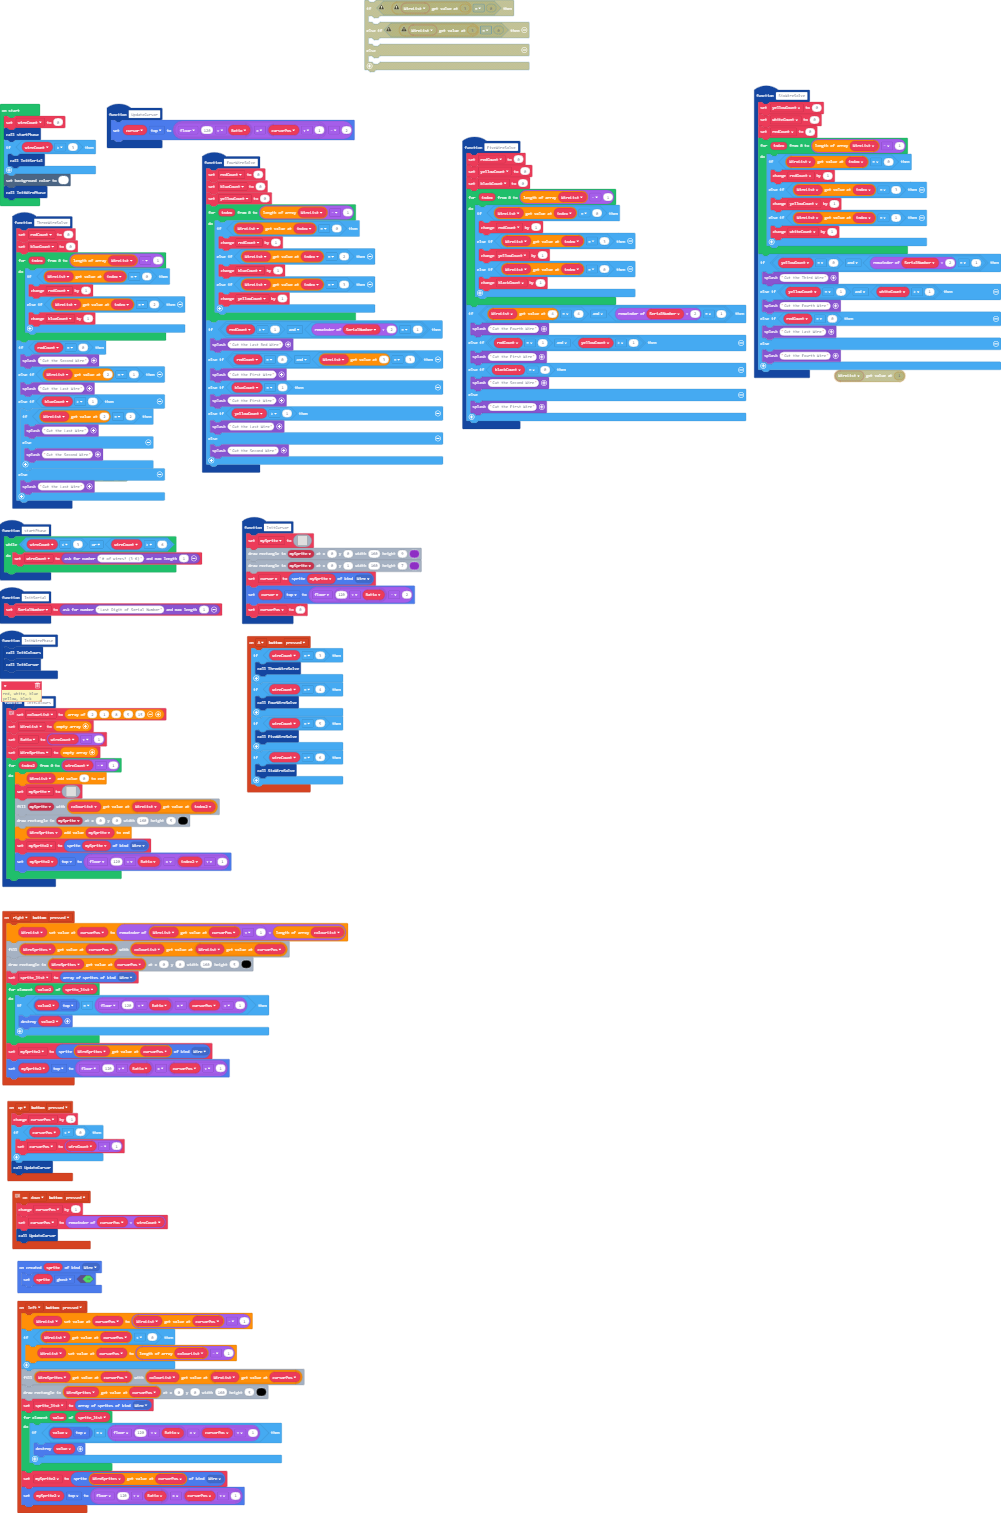
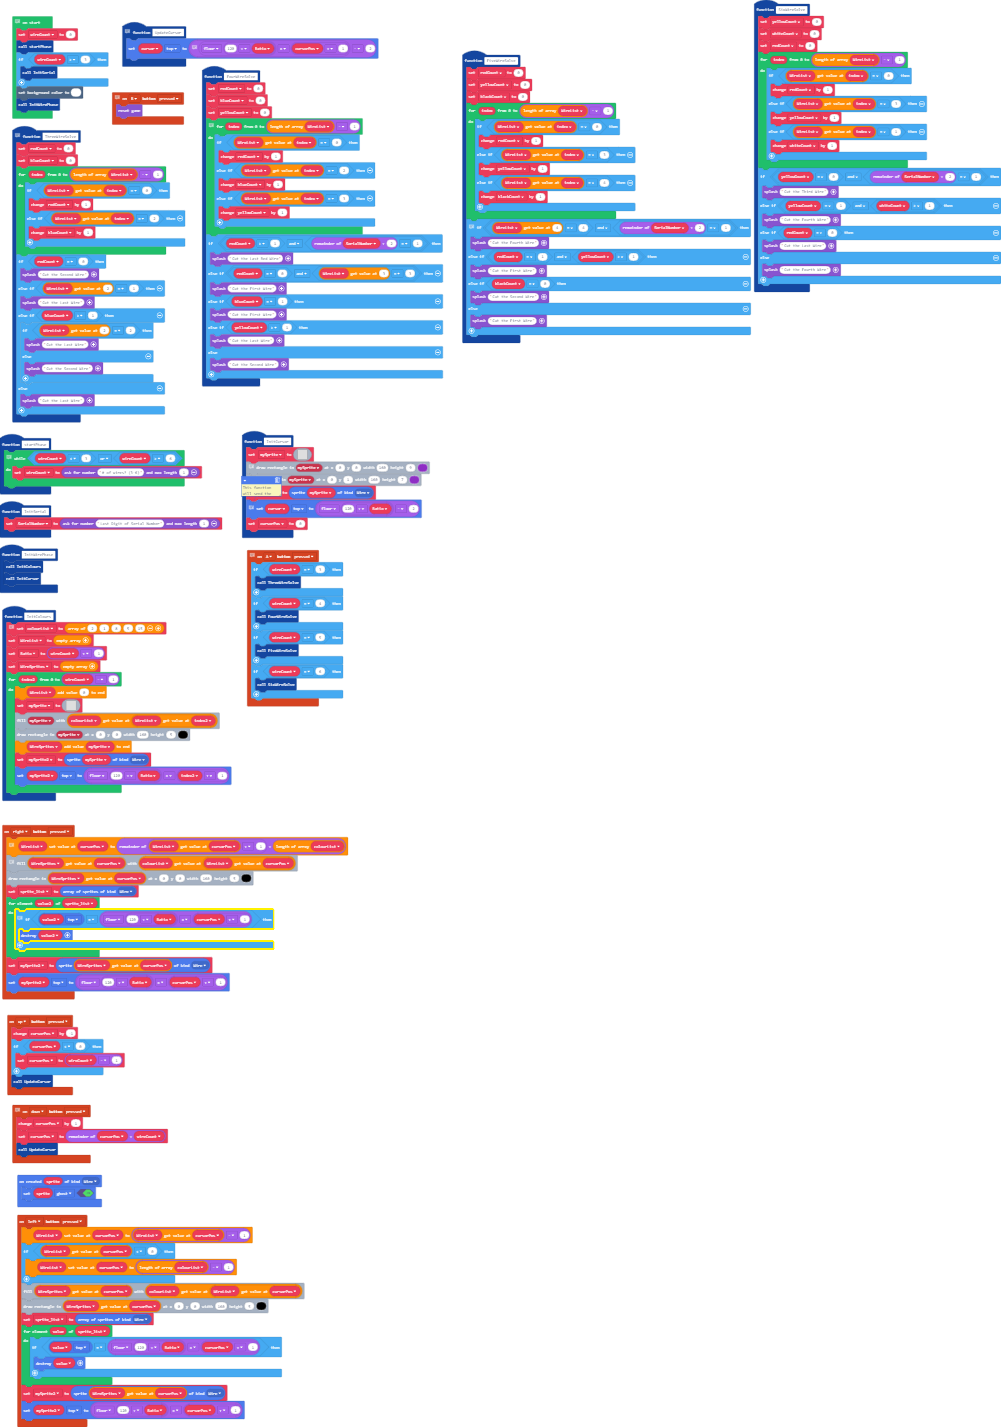
Added a reset button and a few comments to explain what the functions do

Changed region(s): [[0.0, 0.0, 1.0, 1.0]]

diff --git a/main.ts b/main.ts
@@ -1,55 +1,17 @@
 namespace SpriteKind {
     export const Wire = SpriteKind.create()
 }
+// This instructs the cursor to start from the top of
+// whatever platform it on by starting at the top to
+// the sum of the math that has taken place
 function UpdateCursor () {
     cursor.top = Math.floor(120 / Ratio) * (cursorPos + 1) - 2
 }
-function SixWireSolve () {
-    yellowCount = 0
-    whiteCount = 0
-    redCount = 0
-    for (let index = 0; index <= WireList.length - 1; index++) {
-        if (WireList[index] == 0) {
-            redCount += 1
-        } else if (WireList[index] == 3) {
-            yellowCount += 1
-        } else if (WireList[index] == 1) {
-            whiteCount += 1
-        }
-    }
-    if (yellowCount == 0 && SerialNumber % 2 == 1) {
-        game.splash("Cut the Third Wire")
-    } else if (yellowCount == 1 && whiteCount > 1) {
-        game.splash("Cut the Fourth Wire")
-    } else if (redCount == 0) {
-        game.splash("Cut the Last Wire")
-    } else {
-        game.splash("Cut the Fourth Wire")
-    }
-}
-function FiveWireSolve () {
-    redCount = 0
-    yellowCount = 0
-    blackCount = 0
-    for (let index = 0; index <= WireList.length - 1; index++) {
-        if (WireList[index] == 0) {
-            redCount += 1
-        } else if (WireList[index] == 3) {
-            yellowCount += 1
-        } else if (WireList[index] == 0) {
-            blackCount += 1
-        }
-    }
-    if (WireList[4] == 4 && SerialNumber % 2 == 1) {
-        game.splash("Cut the Fourth Wire")
-    } else if (redCount == 1 && yellowCount > 1) {
-        game.splash("Cut the First Wire")
-    } else if (blackCount == 0) {
-        game.splash("Cut the Second Wire")
-    } else {
-        game.splash("Cut the First Wire")
-    }
-}
+// This is the threewire solve, what occurs is when
+// the user places a certain colour (red and blue) the
+// functions checks to see how much of that colour is
+// there and where it's placed. It then instructs the
+// user the exact wire they should cut.
 function ThreeWireSolve () {
     redCount = 0
     blueCount = 0
@@ -91,6 +53,8 @@ controller.left.onEvent(ControllerButtonEvent.Pressed, function () {
     mySprite2.top = Math.floor(120 / Ratio) * (cursorPos + 1)
 })
 function startPhase () {
+    // Set the input range between 3-6 if any higher or
+    // lower the question will reset
     while (wireCount < 3 || wireCount > 6) {
         wireCount = game.askForNumber("# of wires? (3-6)", 1)
     }
@@ -109,6 +73,10 @@ function InitWirePhase () {
     InitColours()
     InitCursor()
 }
+// This button resets the user back to the start
+controller.B.onEvent(ControllerButtonEvent.Pressed, function () {
+    game.reset()
+})
 function InitCursor () {
     mySprite = img`
 . . . . . . . . . . . . . . . . . . . . . . . . . . . . . . . . . . . . . . . . . . . . . . . . . . . . . . . . . . . . . . . . . . . . . . . . . . . . . . . . . . . . . . . . . . . . . . . . . . . . . . . . . . . . . . . . . . . . . . . . . . . . . . . . . . . . . . . . . . . . . . . . . . . . . . . . . . . . . . . . 
@@ -121,9 +89,14 @@ function InitCursor () {
 . . . . . . . . . . . . . . . . . . . . . . . . . . . . . . . . . . . . . . . . . . . . . . . . . . . . . . . . . . . . . . . . . . . . . . . . . . . . . . . . . . . . . . . . . . . . . . . . . . . . . . . . . . . . . . . . . . . . . . . . . . . . . . . . . . . . . . . . . . . . . . . . . . . . . . . . . . . . . . . . 
 . . . . . . . . . . . . . . . . . . . . . . . . . . . . . . . . . . . . . . . . . . . . . . . . . . . . . . . . . . . . . . . . . . . . . . . . . . . . . . . . . . . . . . . . . . . . . . . . . . . . . . . . . . . . . . . . . . . . . . . . . . . . . . . . . . . . . . . . . . . . . . . . . . . . . . . . . . . . . . . . 
 `
+    // For a more thicker border place 2 rectangle same
+    // width but different height
     mySprite.drawRect(0, 0, 160, 9, 10)
     mySprite.drawRect(0, 1, 160, 7, 10)
     cursor = sprites.create(mySprite, SpriteKind.Wire)
+    // This function will send the user to the top to
+    // start off, it will divide the ratio of the certain
+    // solve by 120 and to be exact minus 2
     cursor.top = Math.floor(120 / Ratio) - 2
     cursorPos = 0
 }
@@ -131,6 +104,9 @@ function FourWireSolve () {
     redCount = 0
     blueCount = 0
     yellowCount = 0
+    // This just sets the colour in the array with the
+    // colour used in this wire solve and just makes the
+    // colour count go up by one
     for (let index = 0; index <= WireList.length - 1; index++) {
         if (WireList[index] == 0) {
             redCount += 1
@@ -174,6 +150,33 @@ function InitColours () {
         mySprite2.top = Math.floor(120 / Ratio) * (index2 + 1)
     }
 }
+function SixWireSolve () {
+    yellowCount = 0
+    whiteCount = 0
+    redCount = 0
+    for (let index = 0; index <= WireList.length - 1; index++) {
+        if (WireList[index] == 0) {
+            redCount += 1
+        } else if (WireList[index] == 3) {
+            yellowCount += 1
+        } else if (WireList[index] == 1) {
+            whiteCount += 1
+        }
+    }
+    if (yellowCount == 0 && SerialNumber % 2 == 1) {
+        game.splash("Cut the Third Wire")
+    } else if (yellowCount == 1 && whiteCount > 1) {
+        game.splash("Cut the Fourth Wire")
+    } else if (redCount == 0) {
+        game.splash("Cut the Last Wire")
+    } else {
+        game.splash("Cut the Fourth Wire")
+    }
+}
+// If wire input is 3 wire call threeWireSolve  if
+// wire input is 4 call fourWireSolve    if wire input
+// is 5 call FiveWireSolve    if wire input is 6 call
+// sixWireSolve
 controller.A.onEvent(ControllerButtonEvent.Pressed, function () {
     if (wireCount == 3) {
         ThreeWireSolve()
@@ -192,11 +195,20 @@ sprites.onCreated(SpriteKind.Wire, function (sprite) {
     sprite.setFlag(SpriteFlag.Ghost, true)
 })
 controller.right.onEvent(ControllerButtonEvent.Pressed, function () {
+    // This just places the wirelist to start at the same
+    // position the cursor starts off 
+    //
+    // This just places the wirelist to start at the same
+    // position the cursor starts off 
     WireList[cursorPos] = (WireList[cursorPos] + 1) % colourList.length
+    // This fills the wiresprite with the exact colour its
+    // set to in the array 
     WireSprites[cursorPos].fill(colourList[WireList[cursorPos]])
     WireSprites[cursorPos].drawRect(0, 0, 160, 5, 15)
     sprite_list = sprites.allOfKind(SpriteKind.Wire)
     for (let value2 of sprite_list) {
+        // Each time the user changes the colour, it destroys
+        // the value to got to place the new colour value
         if (value2.top == Math.floor(120 / Ratio) * (cursorPos + 1)) {
             value2.destroy()
         }
@@ -204,6 +216,32 @@ controller.right.onEvent(ControllerButtonEvent.Pressed, function () {
     mySprite2 = sprites.create(WireSprites[cursorPos], SpriteKind.Wire)
     mySprite2.top = Math.floor(120 / Ratio) * (cursorPos + 1)
 })
+function FiveWireSolve () {
+    redCount = 0
+    yellowCount = 0
+    blackCount = 0
+    for (let index = 0; index <= WireList.length - 1; index++) {
+        if (WireList[index] == 0) {
+            redCount += 1
+        } else if (WireList[index] == 3) {
+            yellowCount += 1
+        } else if (WireList[index] == 4) {
+            blackCount += 1
+        }
+    }
+    // Set wirelist to get value at 4 which equal colour
+    // black in the array. Divide serialNumber by 2 and if
+    // it equals one or anything small it is odd
+    if (WireList[4] == 4 && SerialNumber % 2 == 1) {
+        game.splash("Cut the Fourth Wire")
+    } else if (redCount == 1 && yellowCount > 1) {
+        game.splash("Cut the First Wire")
+    } else if (blackCount == 0) {
+        game.splash("Cut the Second Wire")
+    } else {
+        game.splash("Cut the First Wire")
+    }
+}
 controller.up.onEvent(ControllerButtonEvent.Pressed, function () {
     cursorPos += -1
     if (cursorPos < 0) {
@@ -211,18 +249,18 @@ controller.up.onEvent(ControllerButtonEvent.Pressed, function () {
     }
     UpdateCursor()
 })
+let blackCount = 0
+let whiteCount = 0
+let yellowCount = 0
 let mySprite: Image = null
+let SerialNumber = 0
 let mySprite2: Sprite = null
 let sprite_list: Sprite[] = []
 let WireSprites: Image[] = []
 let colourList: number[] = []
-let blueCount = 0
-let blackCount = 0
-let SerialNumber = 0
 let WireList: number[] = []
+let blueCount = 0
 let redCount = 0
-let whiteCount = 0
-let yellowCount = 0
 let cursorPos = 0
 let Ratio = 0
 let cursor: Sprite = null
